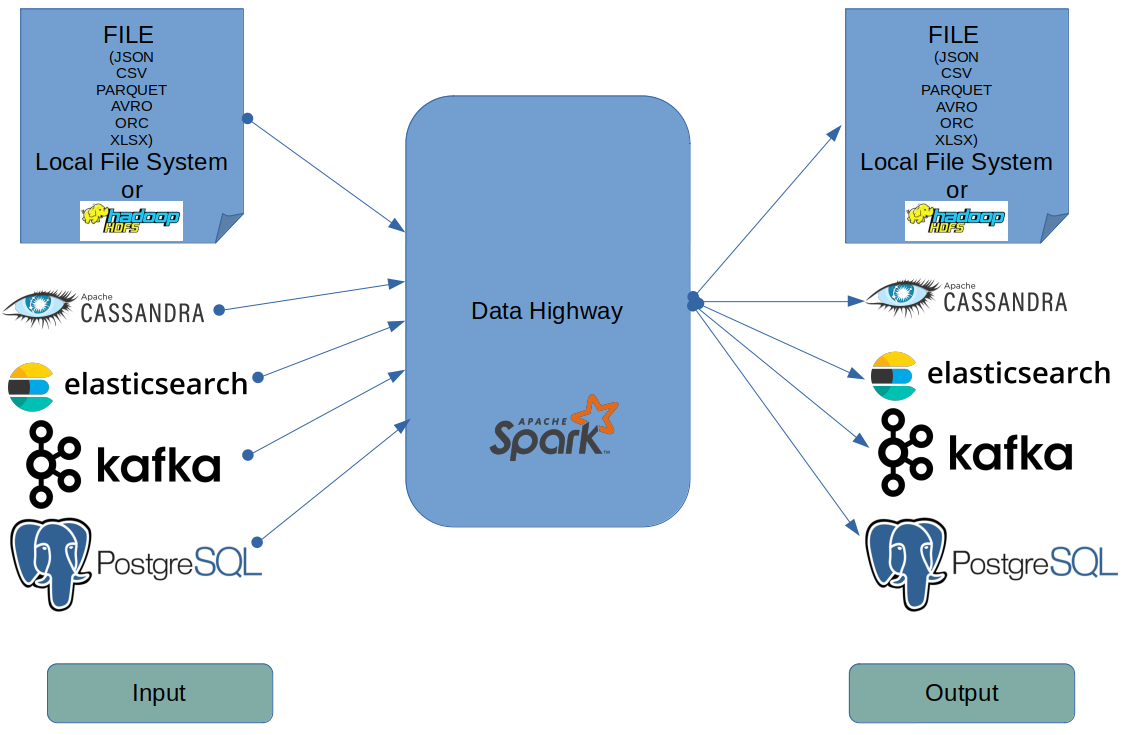
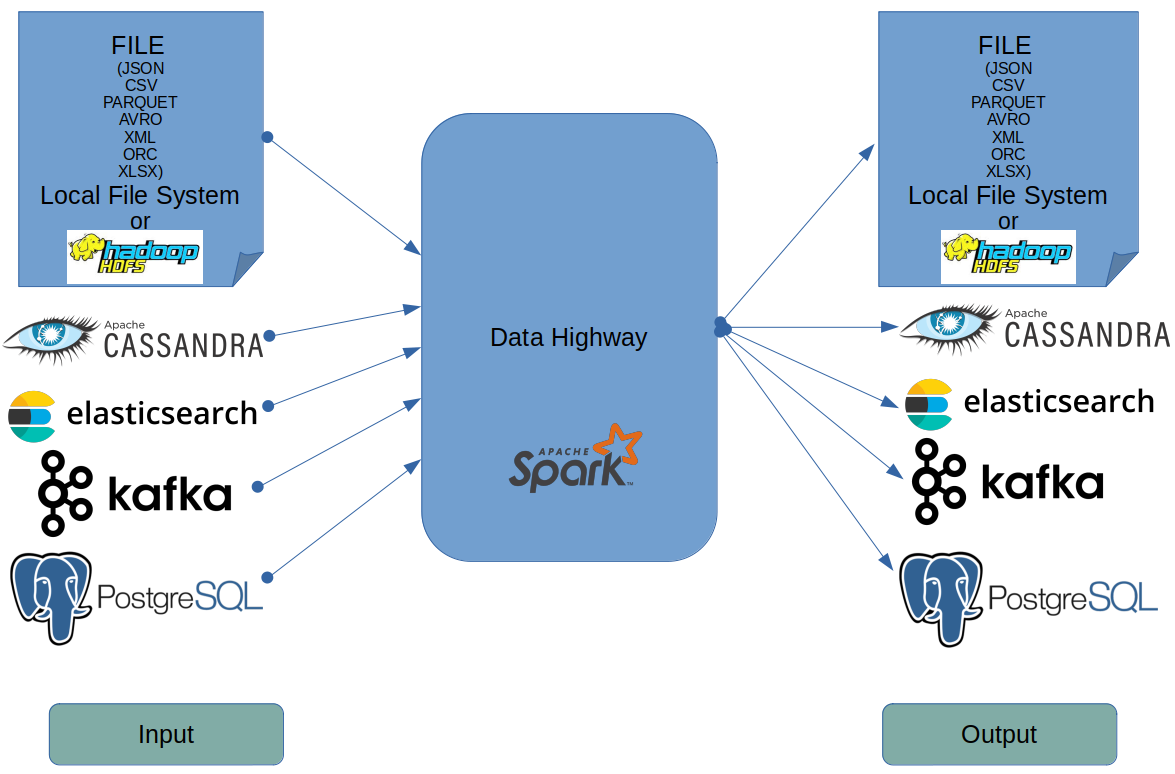
Update documentation and Postman queries

diff --git a/README.md b/README.md
@@ -1,7 +1,7 @@
 Yet another ETL.
 
 Using **data-highway**, you can convert your data to multiple data types or send them to other tools.
-The actual supported data types are : **JSON**, **CSV**, **PARQUET**, **AVRO**, **ORC** and **XLSX**.
+The actual supported data types are : **JSON**, **CSV**, **PARQUET**, **AVRO**, **ORC** , **XML** and **XLSX**.
 **Data Highway** interacts as well with **Cassandra**, **Elasticsearch**, **Postgres** and **Kafka**, using multiple modes.
 
 For example, **Data Highway** allows you to :
@@ -267,14 +267,14 @@ that will be created automatically.
     "input": { // 1- The input section
       "type": "file",
       "data-type": {
-        "type": "parquet" // supported values: 'avro', orc, 'parquet', 'csv'(See Note about CSV), 'json' and 'xlsx'
+        "type": "parquet" // supported values: 'avro', orc, 'parquet', 'xml', 'csv'(See Note about CSV), 'json' and 'xlsx'
       },
       "path": "/path/to/data/parquet/input"
     },
     "output": { // 2- The output section
       "type": "file",
       "data-type": {
-        "type": "avro" // supported values: 'avro', orc, 'parquet', 'csv'(See Note about CSV), 'json' and 'xlsx'
+        "type": "avro" // supported values: 'avro', orc, 'parquet', 'xml', 'csv'(See Note about CSV), 'json' and 'xlsx'
       },
       "path": "/path/to/data/avro/output"
     },
@@ -335,7 +335,7 @@ You can produce data to a Kafka topic using one of these 2 modes : `Pure Kafka P
     "input": {
       "type": "file",
       "data-type": {
-        "type": "avro" // supported values: 'avro', orc, 'parquet', 'csv'(See Note about CSV), 'json' and 'xlsx'
+        "type": "avro" // supported values: 'avro', orc, 'parquet', 'xml', 'csv'(See Note about CSV), 'json' and 'xlsx'
       },
       "path": "/path/to/data/avro/input"
     },
@@ -365,7 +365,7 @@ This a one-time job.
     "input": {
       "type": "file",
       "data-type": {
-        "type": "json" // supported values: 'avro', orc, 'parquet', 'csv'(See Note about CSV), 'json' and 'xlsx'
+        "type": "json" // supported values: 'avro', orc, 'parquet', 'xml', 'csv'(See Note about CSV), 'json' and 'xlsx'
       },
       "path": "/path/to/data/json/input"
     },
@@ -413,7 +413,7 @@ This a one-time job.
     "input": {
       "type": "file",
       "data-type": {
-        "type": "avro" // supported values: 'avro', orc, 'parquet', 'csv'(See Note about CSV), 'json' and 'xlsx'
+        "type": "avro" // supported values: 'avro', orc, 'parquet', 'xml', 'csv'(See Note about CSV), 'json' and 'xlsx'
       },
       "path": "/path/to/data/csv/input"
     },
@@ -443,7 +443,7 @@ This a one-time job.
     "input": {
       "type": "file",
       "data-type": {
-        "type": "avro" // supported values: 'avro', orc, 'parquet', 'csv'(See Note about CSV), 'json' and 'xlsx'
+        "type": "avro" // supported values: 'avro', orc, 'parquet', 'xml', 'csv'(See Note about CSV), 'json' and 'xlsx'
       },
       "path": "/path/to/data/csv/input"
     },
@@ -473,7 +473,7 @@ This a one-time job.
     "input": {
       "type": "file",
       "data-type": {
-        "type": "json" // supported values: 'avro', orc, 'parquet', 'csv'(See Note about CSV), 'json' and 'xlsx'
+        "type": "json" // supported values: 'avro', orc, 'parquet', 'xml', 'csv'(See Note about CSV), 'json' and 'xlsx'
       },
       "path": "/path/to/data/json/input"
     },
@@ -520,7 +520,7 @@ This is a long-running job.
     "output": {
       "type": "file",
       "data-type": {
-        "type": "json" // supported values: 'avro', orc, 'parquet', 'csv'(See Note about CSV), 'json' and 'xlsx'
+        "type": "json" // supported values: 'avro', orc, 'parquet', 'xml', 'csv'(See Note about CSV), 'json' and 'xlsx'
       },
       "path": "/path/to/data/json/input"
     },
@@ -558,7 +558,7 @@ This is a long-running job.
     "output": {
       "type": "file",
       "data-type": {
-        "type": "parquet" // supported values: 'avro', orc, 'parquet', 'csv'(See Note about CSV), 'json' and 'xlsx'
+        "type": "parquet" // supported values: 'avro', orc, 'parquet', 'xml', 'csv'(See Note about CSV), 'json' and 'xlsx'
       },
       "path": "/path/to/data/parquet/input"
     },
@@ -594,7 +594,7 @@ This is a one-time job.
     "output": {
       "type": "file",
       "data-type": {
-        "type": "avro" // supported values: 'avro', orc, 'parquet', 'csv'(See Note about CSV), 'json' and 'xlsx'
+        "type": "avro" // supported values: 'avro', orc, 'parquet', 'xml', 'csv'(See Note about CSV), 'json' and 'xlsx'
       },
       "path": "/path/to/data/avro/input"
     },
@@ -980,7 +980,7 @@ This is a one-time job.
     "output": {
       "type": "file",
       "data-type": {
-        "type": "json" // supported values: 'avro', orc, 'parquet', 'csv'(See Note about CSV), 'json' and 'xlsx'
+        "type": "json" // supported values: 'avro', orc, 'parquet', 'xml', 'csv'(See Note about CSV), 'json' and 'xlsx'
       },
       "path": "/path/to/data/json/output"
     },
@@ -1135,7 +1135,7 @@ This is a one-time job.
     "output": {
       "type": "file",
       "data-type": {
-        "type": "json" // supported values: 'avro', orc, 'parquet', 'csv'(See Note about CSV), 'json' and 'xlsx'
+        "type": "json" // supported values: 'avro', orc, 'parquet', 'xml', 'csv'(See Note about CSV), 'json' and 'xlsx'
       },
       "path": "/path/to/data/json/output"
     },
@@ -1519,7 +1519,7 @@ This is a one-time job. See section [12- Elasticsearch Search Queries](#12--elas
     "output": {
       "type": "file",
       "data-type": {
-        "type": "json" // supported values: 'avro', orc, 'parquet', 'csv'(See Note about CSV), 'json' and 'xlsx'
+        "type": "json" // supported values: 'avro', orc, 'parquet', 'xml', 'csv'(See Note about CSV), 'json' and 'xlsx'
       },
       "path": "/path/to/data/json/output"
     },
